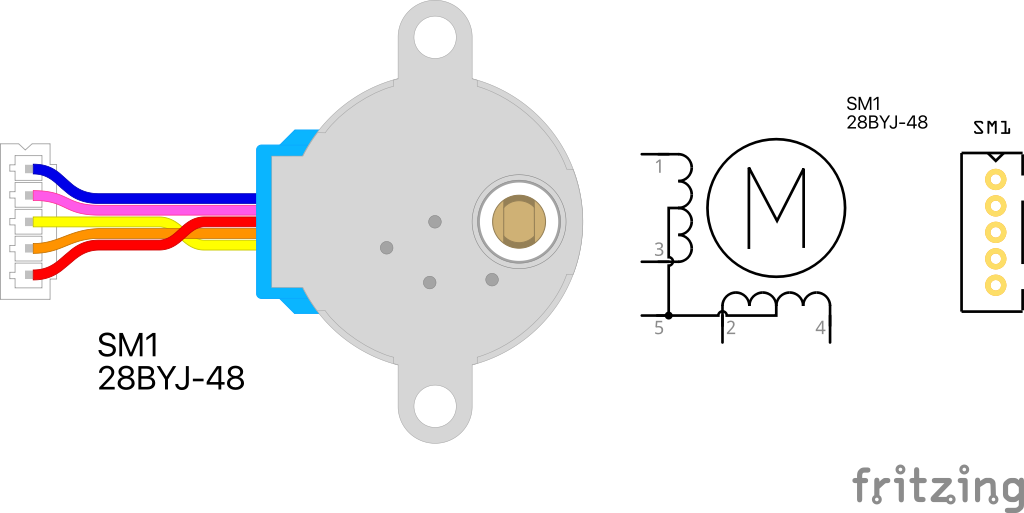
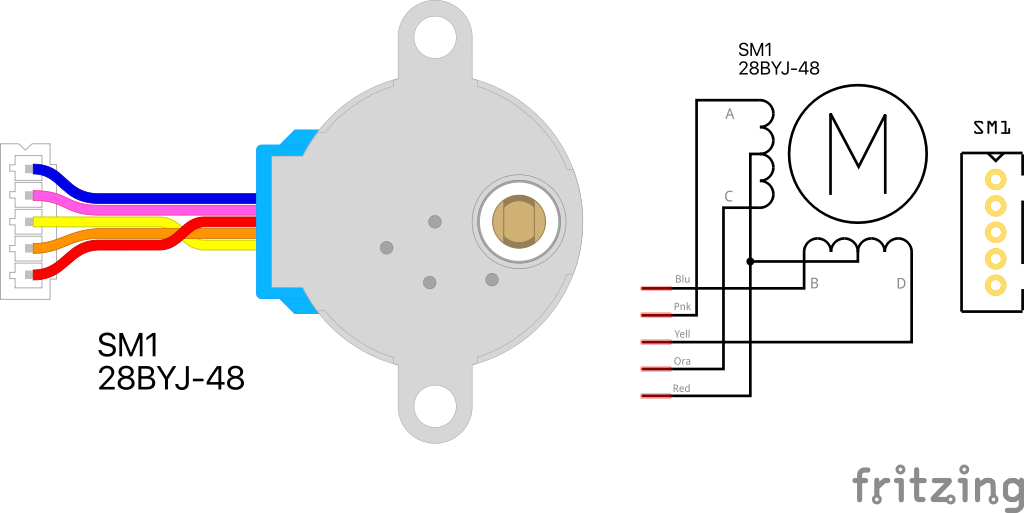
Updated part with new schematic symbol and some minor fixes

diff --git a/28BYJ-48-motor/README.md b/28BYJ-48-motor/README.md
@@ -1,9 +1,12 @@
 # 28BYJ-48 Stepper Motor
-A fritzing part for the 28BYJ-48 Stepper Motor with its JST connector and all the wiring done correctly. Includes also schematic symbol and pcb footprint.
+A fritzing part for the 28BYJ-48 Stepper Motor with its JST connector and all the wiring done correctly. Includes also the schematic symbol and the pcb footprint.
 
 ![28BYJ-48-motor](28BYJ-48-motor.png)
 
 Have a look at the [28BYJ-48 ULN2003 driver module part](../28BYJ-48-driver/) also.
+
+## NOTE
+The connector pins are marked as **male** instead of the correct **female** type as a trick to *help* Fritzing connect it to the driver module more easily (where the same trick is applied).
 
 ## LICENSE
 
